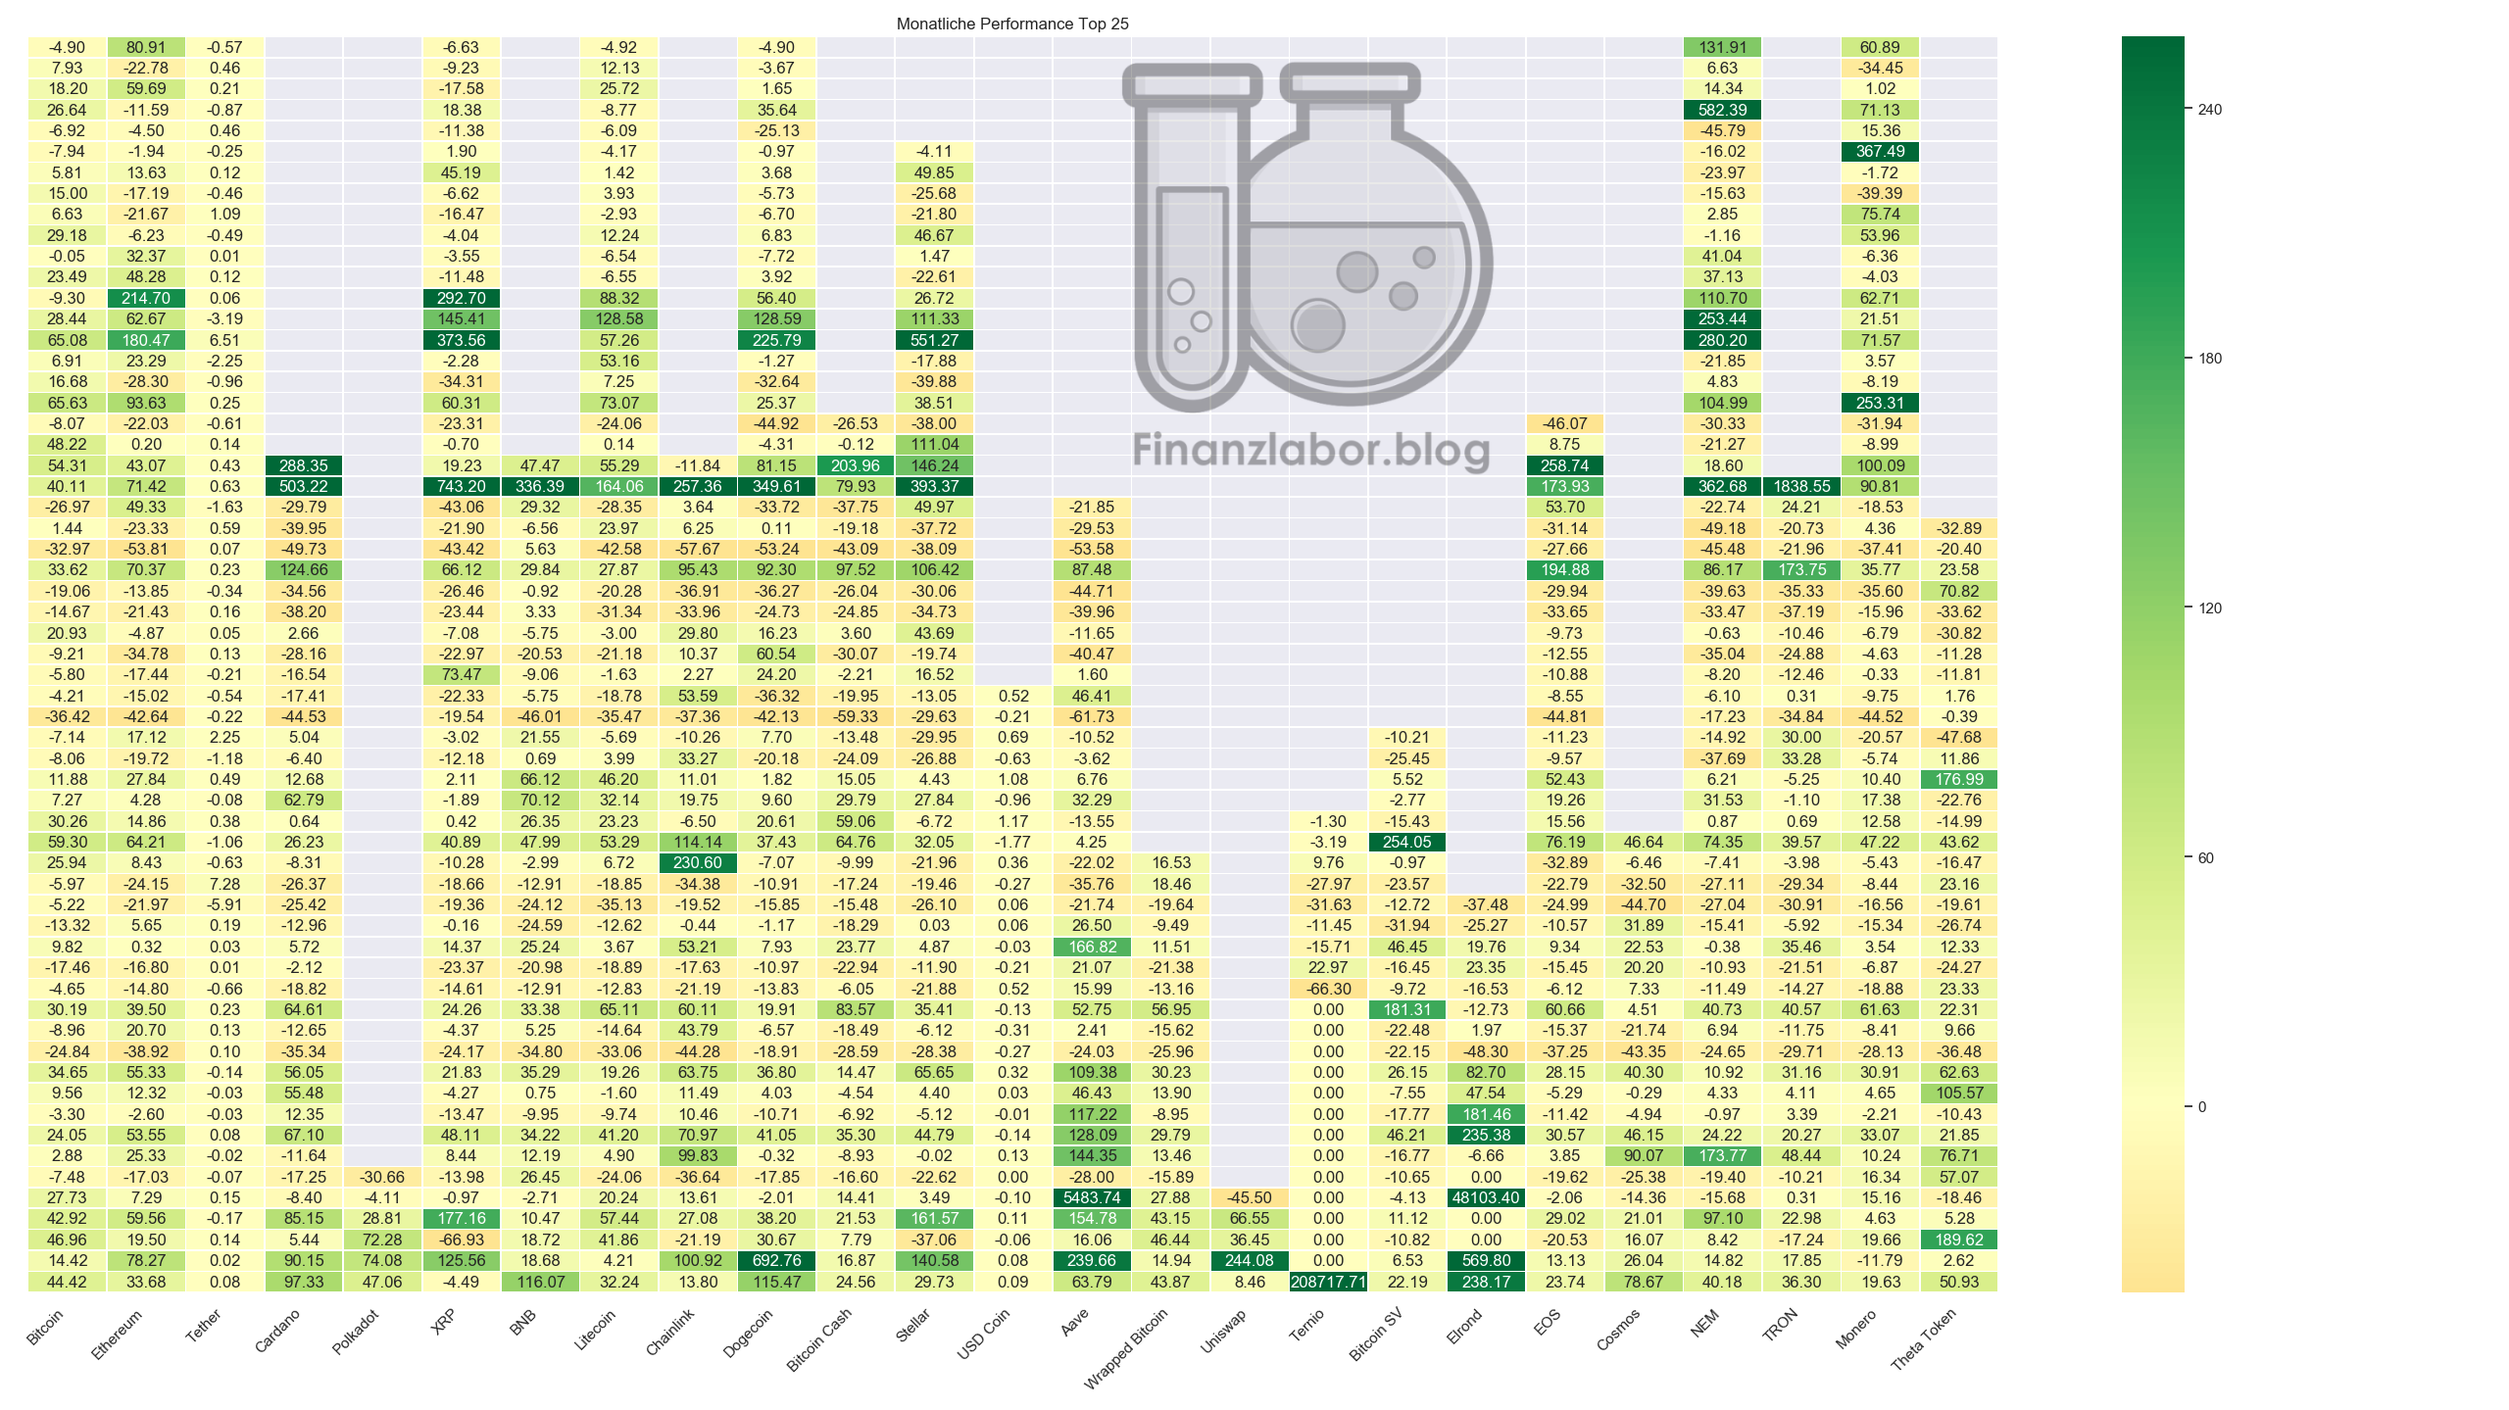
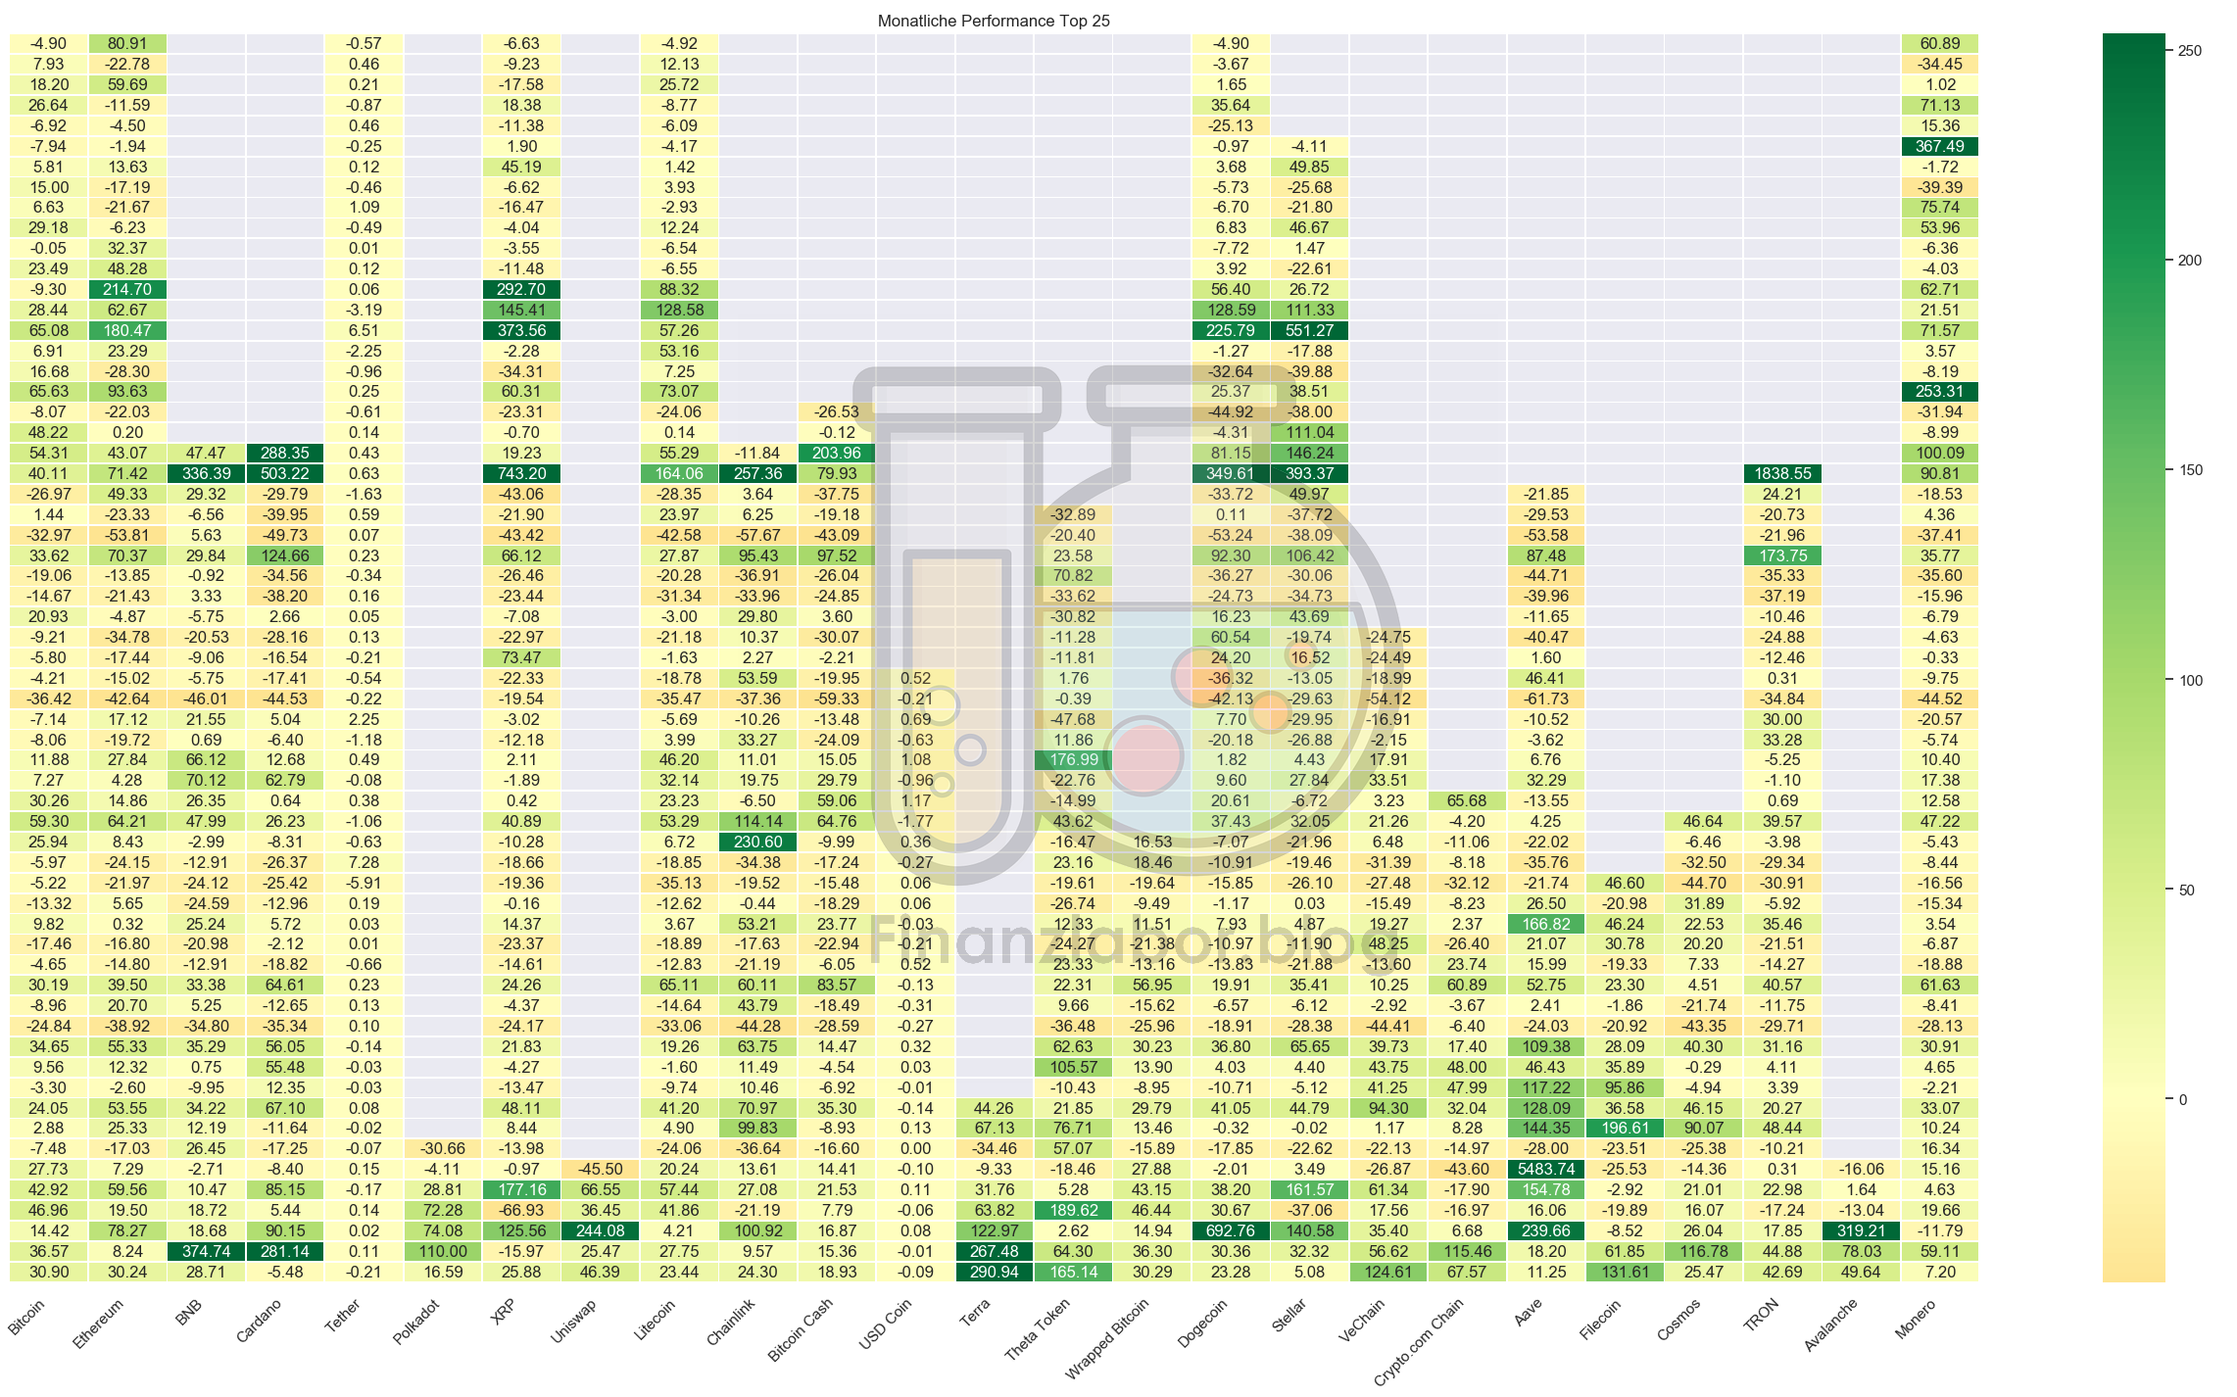
Add new entries to crypto diary / Rework about section

diff --git a/source/_posts/finance/crypto_diary/crypto_diary.md b/source/_posts/finance/crypto_diary/crypto_diary.md
@@ -17,6 +17,72 @@ Fast vier Jahre hat es gedauert, bis ich mir die Zeit genommen hatte, in die unb
 
 **Hinweis in eigner Sache (Werbung)**: Ich verwende für den Kauf/Verkauf von Kryptowährungen die Börse Binance (die Gründe dafür werden in den nächsten Zeilen aufgeführt). Diese betreibt das [Binance Referral Program](https://www.binance.com/en/activity/referral), welches einen Bruchteil der Transaktionskosten an die Kunden zurückzahlt (Kickback). Wenn Ihr euch über [meinen Link](https://accounts.binance.com/de/register?ref=BNYR5DG3) anmeldet, erhaltet ihr 10 Prozent meiner anfallenden Gebühren (Ich erhalte ebenfalls 10 Prozent). Weitere Informationen zum Programm können der Binance-Webseite entnommen werden. Haben euch die nachfolgenden Zeilen beim Einstieg in die Krypto-Szene geholfen, wäre ich euch dankbar, wenn ihr euch über [diesen Link](https://accounts.binance.com/de/register?ref=BNYR5DG3) anmelden würdet. Bei Fragen könnte ihr euch auch direkt bei mir melden (kontakt@finanzlabor.blog). Ich bedanke mich bereits schon jetzt für eure Unterstützung. Nun wünsche ich viel Spass beim Lesen.
 
+
+## 7. März 2021
+
+Nun wollte ich noch ein wenig tiefer in die Krypto-Materie eintauchen. Dazu habe ich mir, mit Hilfe der API von [messari.io](https://messari.io/), einige weitere Informationen zu den einzelnen Projekten beschafft:
+
+* Art der Einführung
+* Initiale Verteilung (Investoren, Oranisationen/Gründer und "Pre-mined" Rewards/Airdrops)
+* Konsensus-Mechanismen
+* Emissionstypen
+* Maximale Anzahl an Coins/Token
+* Aktivität der Projekt(weiter)entwicklung
+* Präsenz in den sozialen Medien
+
+Nun folgen die einzelnen Tabellen, welche ich aus diesen Daten erstellt habe. Zusätzlich habe ich einige weiterführendn Informationen zusammen getragen, welche bei der Interpretation der Inhalte helfen sollen. Der Herausgeber der Schnittstelle verfügt über eine eigene Erklärungsseite[^10], welche jedoch nur in englischer Sprache verfügbar ist.
+
+Es gibt verschiedene Vorgehensweisen, um eine neue Währung in den Markt einzuführen. Ich habe versucht, die einzelnen Varianten in meinen eigenen Worten zu beschreiben:
+* **Fair Launch**: Bei der Einführung ist die komplette Menge der verfügbaren Coins/Token erwerbbar
+* **Crowdsale**: Ähnlich wie "Fair Launch". Es existieren jedoch bereits vorgeschürfte (pre-mined) Coins/Token, welche vorerst nicht für die Öffentlichkeit zugänglich sind
+* **Centralized Distribution**: Die Coins/Token werden von einer zentralen Stelle aus verwaltet und gesteuert
+* **Ledger Fork**: Der Coin/Token ist durch einen Fork (Gabelung) eines bestehenden Coins/Token entstanden
+* **Private Sale**: Die komplette, initial herausgegebenen Menge an Coins/Token ist nur für eine vordefinierte Gruppe verfügbar. So können zum Beispiel Aktionäre, in Form von Coins/Token der herausgebenden Aktiengesellschaft, sich in einer anderen Form an der Firma beteiligen
+* **Airdrop**: Die Coins/Token werden unter den Interessenten kostenlos verteilt
+* **Initial Exchange Offering**: Ähnlich wie ein IPO in der Aktien-Welt
+
+Die meisten Projekte verteilten bei der Einführung ihre Coins in mehrere Töpfe auf um diese auf verschiedene Empfängergruppen zu verteilen.
+
+![Initiale Versorgung Top 25 Marktkapitalisierung (Stand 20.03.2021)](crypto_marketcap_supply.png)
+Weiteres Bild: [Initiale Versorgung Top Sektoren (Stand 20.03.2021)](crypto_sector_supply.png)
+
+Um die nachfolgende Tabelle zu verstehen, müssen zuerst die beiden Begriffe Mint und Burn erklärt werden. Mint (Prägung) bedeutet die Erweiterung des bestehenden Angebots eines Vermögenswertes (durch Erschaffung eines Coins/Tokens), Burn (Verbrennung) die Reduzierung des Angebots (durch Zerstörung des Coins/Tokens).
+
+* **Burn and Mint**: Das ausstehende Angebot des Vermögenswerts (Assets) kann sowohl schrumpfen als auch zunehmen, abhängig von der Netzwerknutzung und deren Auswirkungen auf deflationäre (Burn) und inflationäre (Mint) Mechanismen
+* **Deflationary**: Das ausstehende Angebot des Vermögenswerts schrumpft im Laufe der Zeit aufgrund von programmatischen oder nicht-programmatischen Burn-Mechanismen. Beachten Sie, dass in einigen Fällen ein Mindestvorrat festgelegt ist und die Verbrennungsmechanismen bei Erreichen dieses Wertes stoppen.
+* **Fixed Supply**: Das ausstehende Angebot des Vermögenswerts ist fest. Es gibt keine inflationären oder deflationären Mechanismen.
+* **Inflationary**: Das ausstehende Angebot des Vermögenswerts erhöht sich im Laufe der Zeit aufgrund von Prägemechanismen. Beachten Sie, dass in einigen Fällen eine Angebotsobergrenze festgelegt ist und die Prägemechanismen bei Erreichen dieser Obergrenze aufhören.
+
+![Konsensus-Mechanismen Top 25 Marktkapitalisierung (Stand 20.03.2021)](crypto_marketcap_consensus.png)
+Weiteres Bild: [Konsensus-Mechanismen Top Sektoren (Stand 20.03.2021)](crypto_sector_consensus.png)
+
+Um die Korrektheit eines generierten Blockes zu validieren, existieren verschiedene Konsens-Mechanismen. Eine gute Zusammenstellung der einzelnen Methoden ist auf der Seite coin-ratgeber.de[^11] zu finden.
+
+Die meisten Krypto-Projekte stellen den Programmcode der Öffentlichkeit zur Verfügung. Dies erlaubt die Mitarbeit interessierter Software-Entwickler auf der ganzen Welt. Die Dateien werden auf der Plattform GitHub verwaltet, welche die Kollaboration unter den Entwicklern vereinfacht. Diese ermöglicht es, den Projekten zu folgen (GitHub Beobachter) oder als Lesezeichen gespeichert (GitHub Sterne) zu werden. Möchten Programmänderungen der Versionsverwaltung mitgeteilt werden, müssen diese zuerst in sogenannte "Commits" verpackt werden. Diese beinhalten eine oder mehrere geänderte Datei(en) und eine Meldung, welche den Grund oder Zweck der Anpassungen beschreibt. Nach einiger Zeit wird mit Hilfe der Änderungen eine neue Version gebaut, welche danach die aktuell betriebene Software ersetzt.
+
+![Software-Entwicklung Top 25 Marktkapitalisierung (Stand 20.03.2021)](crypto_marketcap_dev.png)
+Weiteres Bild: [Software-Entwicklung Top Sektoren (Stand 20.03.2021)](crypto_sector_dev.png)
+
+Eine weitere spannende Informationsquelle ist der Social-News-Aggregator Reddit. Die Anzahl aktiver Benutzer beziehungsweise Abonnenten auf dieser Plattform könnten vielleicht etwas über die aktuelle Akzeptanz eines Projektes aussagen.
+
+![Social Media Top 25 Marktkapitalisierung (Stand 20.03.2021)](crypto_marketcap_social_media.png)
+Weiteres Bild: [Social Media Top Sektoren (Stand 20.03.2021)](crypto_sector_social_media.png)
+
+## 22. Februar 2021
+
+Die Zahlen sind alle rot und zweistellig im Minus. Ich verspürte den inneren Drang, meine monatliche Investitionssumme sofort in eine der Kryptowährungen zu investieren. Fomo ("Fear of missing out", die Angst etwas zu verpassen) heisst der, in letzter Zeit oft verwendete Begriff dazu. Ich schritt zur Tat: Bitcoin war mit etwa 13 Prozent im Minus, als ich meinen ersten Kaufauftrag eingestellt hatte (etwas unter dem Kurs, welcher zuletzt festgestellt wurde). Es passierte das Gegenteil meiner Annahme, der Kurs erholte sich in grossen Schritten und meine Order wurde nicht ausgeführt. Es folgte eine grüne Kerze nach der anderen.  Ich wollte unbedingt meine ersten BTCs in meiner Wallet haben und zog den Preis nach. Nach zwei weiteren erfolglosen Versuchen wurde die Transaktion durchgeführt (bei 43'038 Euro pro Bitcoin). Die Ernüchterung folgte während den nachfolgenden Tagen. Nach einer kurzfristigen Erholung stürzte der Kurs um weitere 18 Prozent (14 Prozent im Vergleich zu meinem Trade) ab. Die Moral der Geschichte: Nicht einer verpassten Möglichkeit hinterher rennen. Die nächste Chance lässt meist nicht lange auf sich warten (Anfang Januar war der letzte grössere Rücksetzer um fast 30 Prozent).
+
+Die restlichen 20 Prozent meines verfügbaren monatlichen Guthabens wurden in LINK (Chainlink) investiert (bei 22,5 Euro pro Link). Ich habe mich aus folgenden Gründen für die beiden Investments entschieden:
+
+* Bitcoin (BTC)
+    * Immer mehr Institutionelle sind investiert
+    * Macht über 60 Prozent des gesamten Krypto-Marktkapitals aus
+    * Die Anzahl ist beschränkt
+* Chainlink (LINK)
+    * Es existieren bereits Projekte, welche die Dienstleistung in Anspruch nehmen (Aave, Polkadot)
+    * Ist der Sektor-Leader im Bereich "Oracle Networks"
+    * Die Anzahl ist beschränkt
+
 ## 6. Januar 2021
 
 Nun ging es darum, einen monatlichen Dauerauftrag von meiner Bank zu Binance zu erstellen. Um den Betrag der Überweisung zu bestimmen, habe ich zu Beginn des Jahres meine Budgetplanung aktualisiert. Dabei komme ich auf eine Sparrate von ca. 46%, davon möchte ich zirka 2.5% in Kryptowährungen anlegen. Um die gewünschte Allokation im Gesamtportfolio bis Ende des Jahres 2021 herzustellen, müssen zusätzliche Beträge überwiesen werden.
@@ -27,19 +93,19 @@ Nun war mein Fiat-Konto wieder auf ein paar Cent geschrumpft und ich hatte Zeit,
 
 Als Erstes wollte ich nun herausfinden, wie stark die einzelnen Coins miteinander korrelieren. Ziel dieser Betrachtung war die Bestimmung eines Kryptoportfolios mit möglichst hoher Diversifikation. Ebenfalls wollte ich die gängige Aussage ("Bitcoin ist die Flut, die alle Boot zum Schwimmen bringt") einiger Kryptoinvestoren untersuchen. Daher erstellte ich zwei Korrelationsmatrizen, eine anhand der 25 grössten Projekte (gemessen an der Marktkapitalisierung) sowie der einzelnen Sektor-Platzhirsche (erneut anhand der Marktkapitalisierung). Dabei entstanden folgende Bilder:
 
-![Korrelation Top 25 Marktkapitalisierung](marketCapCorrel.png)
+![Korrelation Top 25 Marktkapitalisierung (Stand 20.03.2021)](marketCapCorrel.png)
 
 Weitere Bilder:
-[Korrelation Top 25 Marktkapitalisierung 100 Tage](marketCapCorrel100.png), [Korrelation Top 25 Marktkapitalisierung 1 Jahr](marketCapCorrel365.png)
-[Korrelation Top Sektoren 100 Tage](sectorCorrel100.png), [Korrelation Top Sektoren 1 Jahr](sectorCorrel365.png), [Korrelation Top Sektoren](sectorCorrel.png)
+[Korrelation Top 25 Marktkapitalisierung 100 Tage (Stand 20.03.2021)](marketCapCorrel100.png), [Korrelation Top 25 Marktkapitalisierung 1 Jahr (Stand 20.03.2021)](marketCapCorrel365.png)
+[Korrelation Top Sektoren 100 Tage (Stand 20.03.2021)](sectorCorrel100.png), [Korrelation Top Sektoren 1 Jahr (Stand 20.03.2021)](sectorCorrel365.png), [Korrelation Top Sektoren (Stand 20.03.2021)](sectorCorrel.png)
 
 Die nächste Frage welche mich beschäftige, war die Performance der einzelnen Währungen (absolut und in Relation zu Bitcoin). Daraus resultierten die nachfolgenden Grafiken, welche die monatlichen Bewegungen der einzelnen Werte in Prozent anzeigen (wobei die Y-Achse beim aktuellen Monat beginnt). Dabei ist auch zu sehen, dass einige der Branchen-Krösusse erst seit einigen Monaten existieren.
 
-![Performance Top 25 Marktkapitalisierung](marketCapPerf.png)
+![Performance Top 25 Marktkapitalisierung (Stand 20.03.2021)](marketCapPerf.png)
 
 Weitere Bilder:
-[Performance in Relation zu Bitcoin Top 25 Marktkapitalisierung](marketCapPerfToBTC.png)
-[Performance Top Sektoren](sectorPerf.png), [Performance in Relation zu Bitcoin Top Sektoren](sectorPerfToBTC.png)
+[Performance in Relation zu Bitcoin Top 25 Marktkapitalisierung (Stand 20.03.2021)](marketCapPerfToBTC.png)
+[Performance Top Sektoren (Stand 20.03.2021)](sectorPerf.png), [Performance in Relation zu Bitcoin Top Sektoren (Stand 20.03.2021)](sectorPerfToBTC.png)
 
 ## 26. Dezember 2020
 
@@ -80,3 +146,5 @@ Während meiner Arbeit in der IT-Branche hörte ich zum ersten Mal etwas von ein
 [^7]: [Kostenvergleich der Krypto-Börsen, cryptoradar.co](https://cryptoradar.co/de/bitcoin-kaufen)
 [^8]: [Ranking der Krypto-Börsen anhand der Marktkapitalisierung, coinmarketcap.com](https://coinmarketcap.com/de/rankings/exchanges/)
 [^9]: [US-Börsenaufsicht SEC erhebt Anklage gegen Blockchain-Unternehmen Ripple, handelsblatt.com](https://www.handelsblatt.com/finanzen/maerkte/devisen-rohstoffe/kryptowaehrung-us-boersenaufsicht-sec-erhebt-anklage-gegen-blockchain-unternehmen-ripple/26745598.html)
+[^10]: [Messari Classifications, messari.io](https://messari.io/article/messari-classifications)
+[^11]: [Konsensus-Mechanismen bie Kryptowährungen, coin-ratgeber.de](https://coin-ratgeber.de/einfuehrung-konsensus-mechanismen-bei-kryptowaehrungen/)

diff --git a/source/about/index.md b/source/about/index.md
@@ -30,7 +30,14 @@ Euer Laborleiter
 
 ## Über den Laborleiter
 
-Die Leitung des Finanzlabors hat eine Person aus der Schweiz mit Baujahr 1984 inne. Neben dieser Tätigkeit arbeitet er als Software-Entwickler in einem kleinen KMU. In seiner Freizeit beschäftigt er sich mit Finanzthemen und übt verschiedene Sportarten aus.
+<img src="steve.jpg" style="float: left; padding-right: 10px; padding-bottom: 10px; padding-top: 27px"/>
+Mein Name ist Steve und ich bin der Leiter des Finanzlabors (seit Oktober 2019). Neben dieser Tätigkeit arbeitete ich als Software-Entwickler in einem kleinen KMU in der Stadt Bern (Schweiz). In meiner Freizeit beschäftigte ich mich mit Finanzthemen, Datenanalysen und übe verschiedene Sportarten (Fussball, Badminton, Wandern) aus.
+
+An der Börse bin ich seit Ende 2016. Die immer tieferen Zinsen auf meinem Sparkonto haben mich dazu bewogen, mein Geld optimaler anzulegen. Begonnen hat alles mit dem Buch ["Was Sie über Geldanlage wissen sollten – Ein Wegweiser für Privatanleger"](https://www.nzz-libro.ch/9783038100331/was-sie-ueber-geldanlage-wissen-sollten) von Michael Felber (erschienen im Verlag "Neue Zürcher Zeitung", Deutscher Finanzbuchpreis 2012). Danach folgten die beiden Klassiker "Souverän investieren mit Indexfonds und ETFs" (Gerd Kommer, campus Verlag) und "Rich Dad Poor Dad" (Robert T. Kiyosaki, FinanzBuch Verlag).
+
+Ich verfolge eine sogenannte Core-Satellite-Strategie mit einem Kern (80 Prozent des Portfolios) aus ETFs (Abbildung der weltweiten Marktkapitalisierung) und mehreren Satelliten (20 Prozent bestehend aus Einzelaktien, Kryptowährungen und Sachwerten).
+
+Ebenfalls habe ich ein Faible für Daten und Grafiken ("Bilder sagen mehr als tausend Worte").
 
 ## Social Media
 Der Finanzlabor-Blog ist auf den wichtigsten sozialen Medien vertreten:
